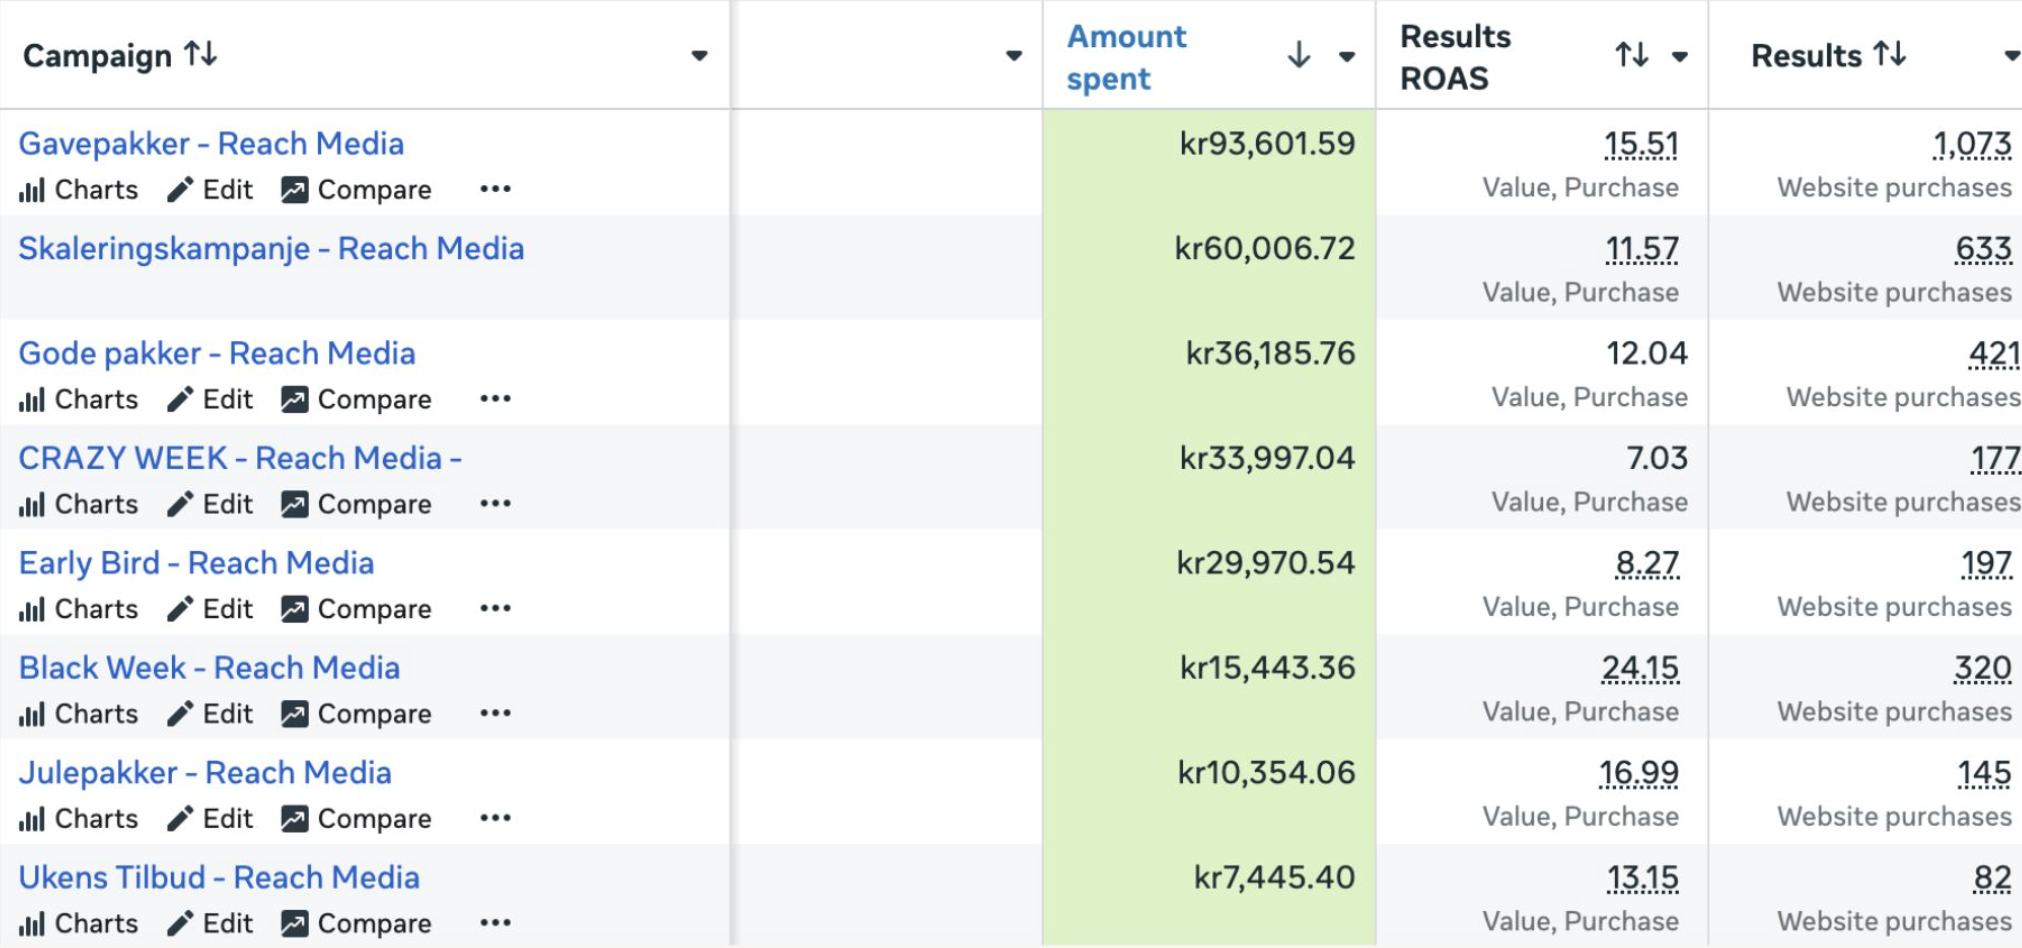
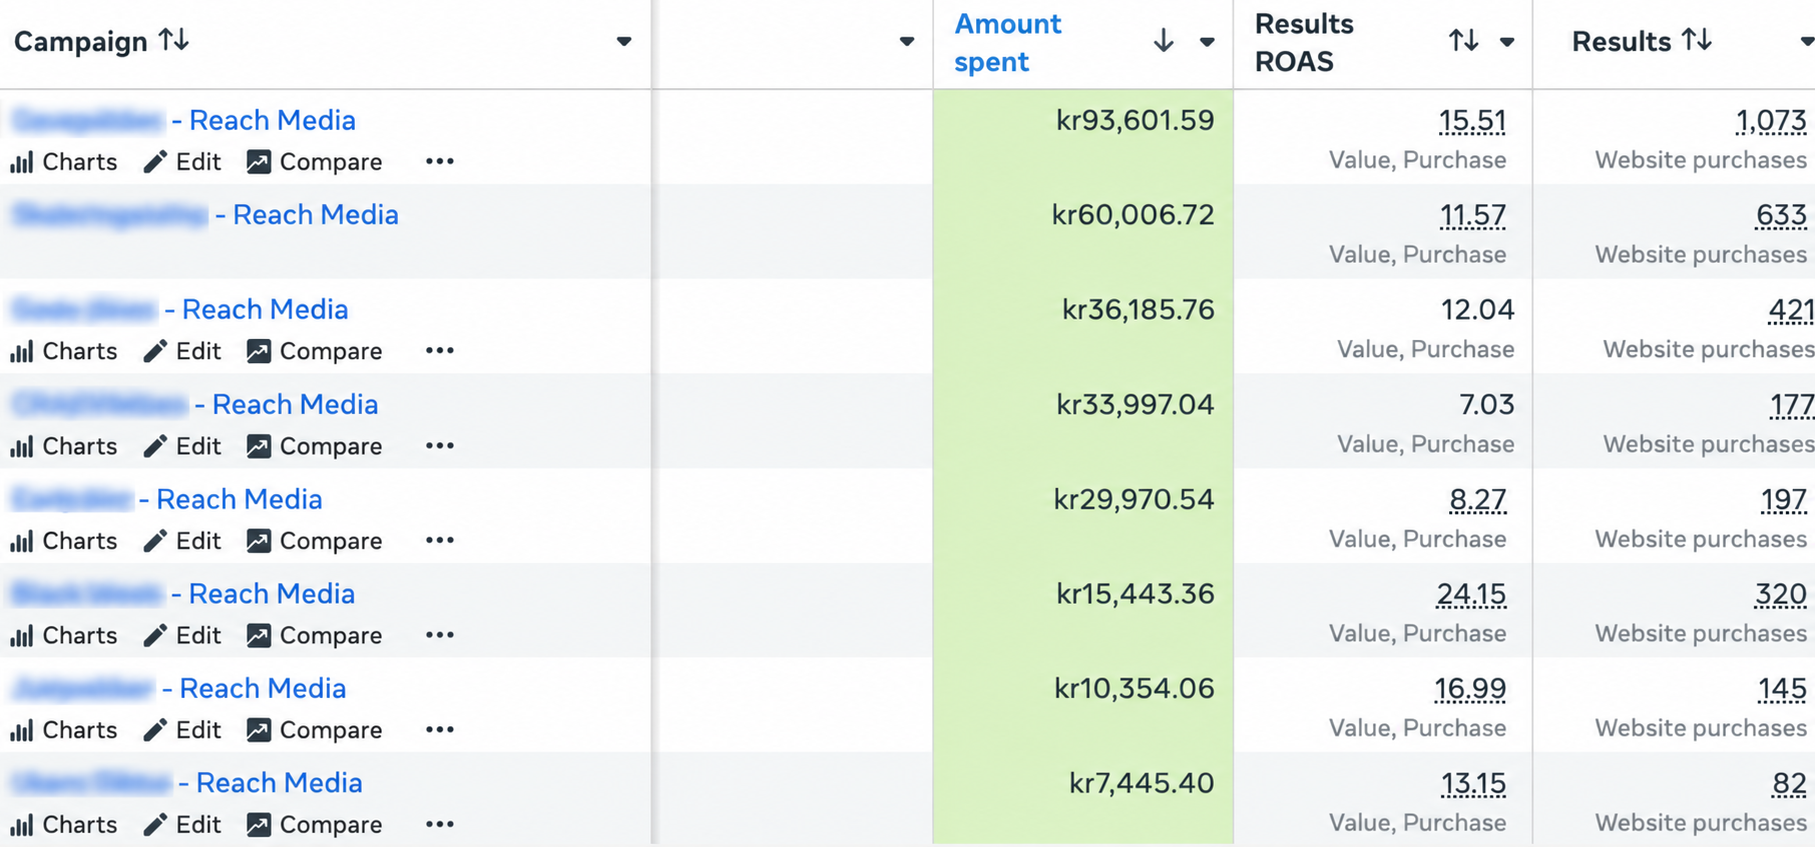
Nytt Meta-skjermbilde i Spekebua-casen

diff --git a/web/src/components/sections/Resultater.tsx b/web/src/components/sections/Resultater.tsx
@@ -46,8 +46,8 @@ const meta: Proof = {
   id: "meta",
   title: "Meta Ads Manager",
   src: "/proof/meta-ads-manager.png",
-  width: 2028,
-  height: 952,
+  width: 1815,
+  height: 847,
   chips: [
     { value: 15.51, format: (n) => n.toFixed(2), label: "ROAS", width: 5 },
     {
